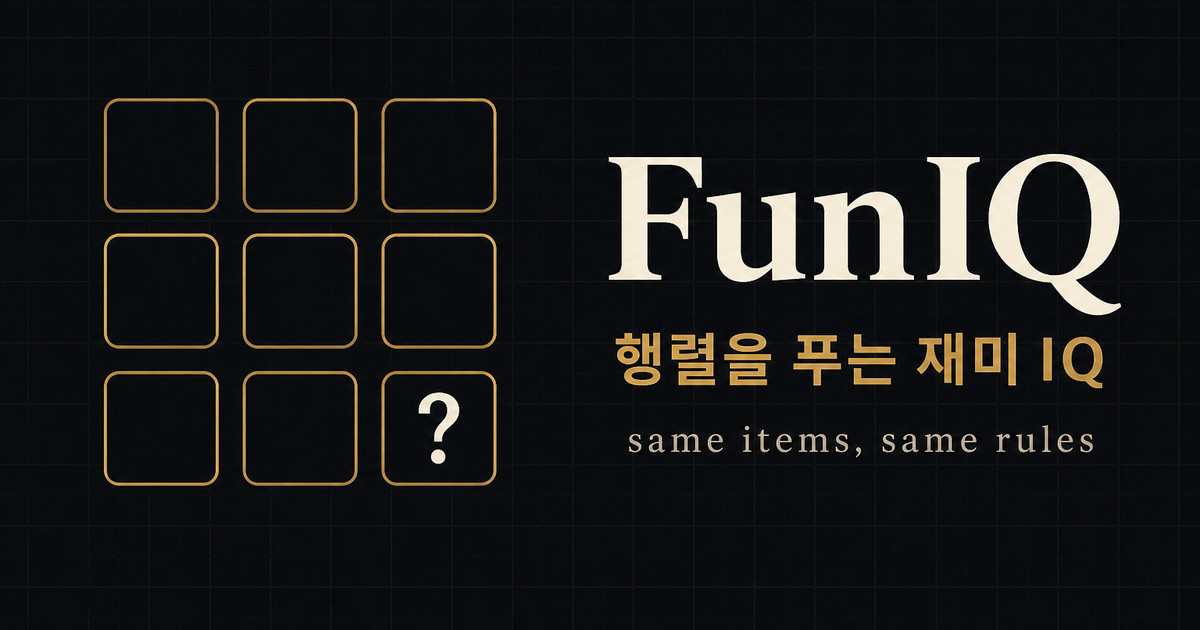
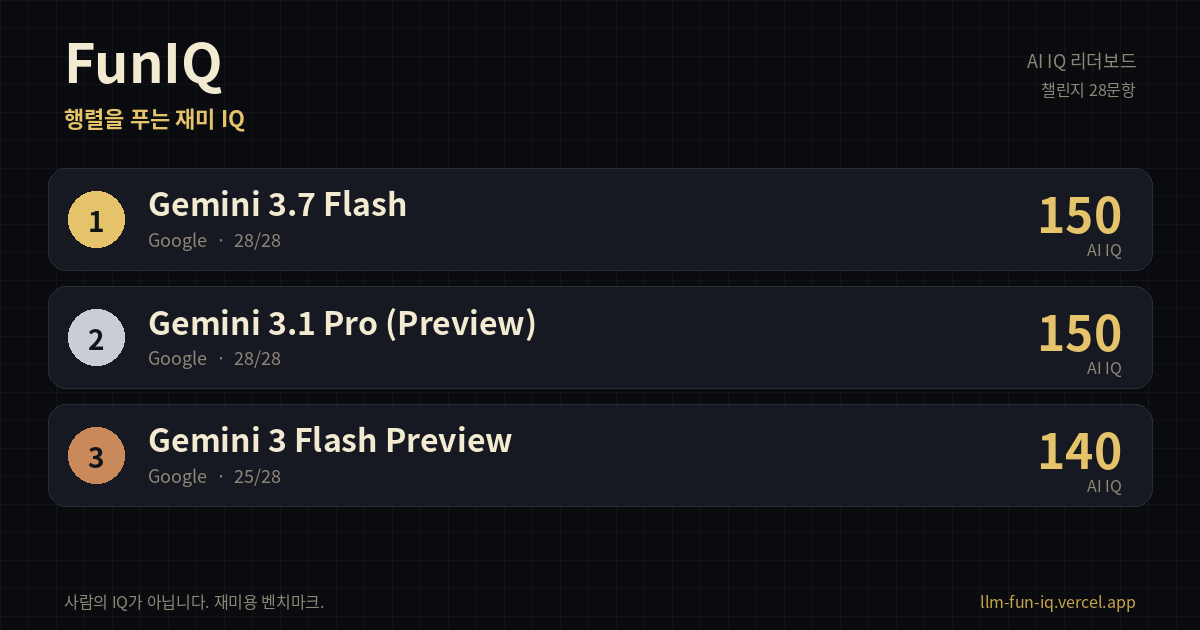
Put current top three models on the share preview card

diff --git a/app/layout.tsx b/app/layout.tsx
@@ -1,10 +1,12 @@
 import type { Metadata } from "next";
 import Link from "next/link";
+import ogMeta from "@/data/og-meta.json";
 import "./globals.css";
 
 const SITE_URL = "https://llm-fun-iq.vercel.app";
 const SITE_TITLE = "FunIQ — 재미로 환산한 AI IQ";
 const SITE_DESC =
+  ogMeta.description ||
   "같은 문항. 같은 규칙. 재미로 환산한 AI IQ. 행렬추론 챌린지 리더보드. 사람의 IQ·Mensa·일반 지능과 무관합니다.";
 
 export const metadata: Metadata = {

diff --git a/scripts/og.py b/scripts/og.py
@@ -1,0 +1,150 @@
+#!/usr/bin/env python3
+"""Render FunIQ OG image (1200x630) from data/leaderboard.json."""
+from __future__ import annotations
+
+import json
+from pathlib import Path
+
+try:
+    from PIL import Image, ImageDraw, ImageFont
+except ImportError:
+    print("og.py skip: pillow missing")
+    raise SystemExit(0)
+
+ROOT = Path(__file__).resolve().parents[1]
+BOARD = ROOT / "data" / "leaderboard.json"
+OUTS = [
+    ROOT / "public" / "og.png",
+    ROOT / "app" / "opengraph-image.png",
+    ROOT / "app" / "twitter-image.png",
+]
+META = ROOT / "data" / "og-meta.json"
+
+W, H = 1200, 630
+BG = (9, 11, 15)
+GOLD = (228, 195, 106)
+GOLD2 = (201, 164, 74)
+CREAM = (243, 234, 210)
+CREAM_DIM = (207, 198, 174)
+MUTED = (142, 135, 120)
+CARD = (22, 25, 34)
+LINE = (40, 44, 54)
+RANK_COLORS = [(228, 195, 106), (200, 205, 214), (201, 137, 90)]
+
+BOLD = "/usr/share/fonts/opentype/noto/NotoSansCJK-Bold.ttc"
+REG = "/usr/share/fonts/opentype/noto/NotoSansCJK-Regular.ttc"
+KR = 1
+
+
+def font(path: str, size: int) -> ImageFont.FreeTypeFont:
+    if not Path(path).exists():
+        print("og.py skip: font missing")
+        raise SystemExit(0)
+    return ImageFont.truetype(path, size, index=KR)
+
+
+def rank_key(r: dict):
+    refusals = r.get("refusals") or 0
+    total = r.get("total") or 28
+    fully_refused = refusals >= total and total > 0
+    return (
+        fully_refused,
+        -(r.get("ai_iq") or 0),
+        -(r.get("accuracy") or 0),
+        r.get("format_failures") or 0,
+        r.get("avg_ms") or 0,
+        str(r.get("id") or ""),
+    )
+
+
+def load_top3():
+    board = json.loads(BOARD.read_text())
+    results = sorted(board.get("results") or [], key=rank_key)
+    return [r for r in results if not ((r.get("refusals") or 0) >= (r.get("total") or 28))][:3]
+
+
+def draw_grid(img: Image.Image) -> None:
+    overlay = Image.new("RGBA", (W, H), (0, 0, 0, 0))
+    d = ImageDraw.Draw(overlay)
+    for x in range(0, W, 28):
+        d.line((x, 0, x, H), fill=(243, 234, 210, 10), width=1)
+    for y in range(0, H, 28):
+        d.line((0, y, W, y), fill=(243, 234, 210, 10), width=1)
+    img.paste(Image.alpha_composite(img.convert("RGBA"), overlay).convert("RGB"))
+
+
+def text(d, xy, s, f, fill, anchor="lt"):
+    d.text(xy, s, font=f, fill=fill, anchor=anchor)
+
+
+def main() -> None:
+    top = load_top3()
+    img = Image.new("RGB", (W, H), BG)
+    draw_grid(img)
+    d = ImageDraw.Draw(img)
+
+    title = font(BOLD, 54)
+    sub = font(BOLD, 22)
+    name_f = font(BOLD, 32)
+    meta_f = font(REG, 18)
+    iq_f = font(BOLD, 48)
+    rank_f = font(BOLD, 28)
+    small = font(REG, 16)
+
+    text(d, (64, 42), "FunIQ", title, CREAM)
+    text(d, (64, 108), "행렬을 푸는 재미 IQ", sub, GOLD)
+    text(d, (W - 64, 52), "AI IQ 리더보드", meta_f, MUTED, anchor="rt")
+    text(d, (W - 64, 82), "챌린지 28문항", small, MUTED, anchor="rt")
+
+    y0 = 168
+    row_h = 118
+    for i, r in enumerate(top):
+        y = y0 + i * row_h
+        d.rounded_rectangle((48, y, W - 48, y + 102), radius=18, fill=CARD, outline=LINE, width=1)
+        cx, cy = 96, y + 51
+        d.ellipse((cx - 28, cy - 28, cx + 28, cy + 28), fill=RANK_COLORS[i])
+        text(d, (cx, cy + 1), str(i + 1), rank_f, (18, 20, 27), anchor="mm")
+        name = r.get("name") or r.get("id") or ""
+        provider = r.get("provider") or ""
+        correct = r.get("correct")
+        total = r.get("total") or 28
+        text(d, (148, y + 22), name, name_f, CREAM)
+        text(d, (148, y + 64), f"{provider}  ·  {correct}/{total}", meta_f, MUTED)
+        iq = r.get("ai_iq")
+        text(d, (W - 78, y + 28), str(iq), iq_f, GOLD, anchor="rt")
+        text(d, (W - 78, y + 76), "AI IQ", small, MUTED, anchor="rt")
+
+    if not top:
+        text(d, (W // 2, H // 2), "아직 리더보드가 비어 있습니다", sub, MUTED, anchor="mm")
+
+    text(d, (64, H - 36), "사람의 IQ가 아닙니다. 재미용 벤치마크.", small, MUTED)
+    text(d, (W - 64, H - 36), "llm-fun-iq.vercel.app", small, GOLD2, anchor="rt")
+
+    (ROOT / "public").mkdir(exist_ok=True)
+    (ROOT / "app").mkdir(exist_ok=True)
+    for p in OUTS:
+        img.save(p, "PNG", optimize=True)
+
+    bits = [f"{i+1}위 {r.get('name')} {r.get('ai_iq')}" for i, r in enumerate(top)]
+    desc = (
+        " · ".join(bits) + ". 같은 문항, 같은 규칙. 재미로 환산한 AI IQ."
+        if bits
+        else "같은 문항. 같은 규칙. 재미로 환산한 AI IQ."
+    )
+    META.write_text(
+        json.dumps(
+            {
+                "title": "FunIQ — 재미로 환산한 AI IQ",
+                "description": desc,
+            },
+            ensure_ascii=False,
+            indent=2,
+        )
+        + "\n"
+    )
+    print("og wrote", ",".join(str(p.relative_to(ROOT)) for p in OUTS))
+    print("top", " | ".join(bits) or "(none)")
+
+
+if __name__ == "__main__":
+    main()
